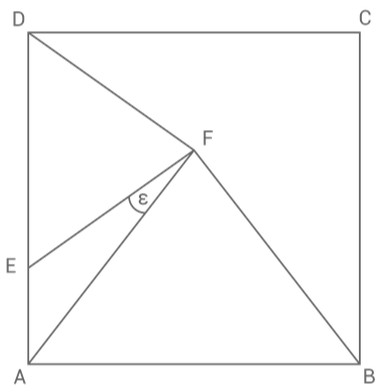
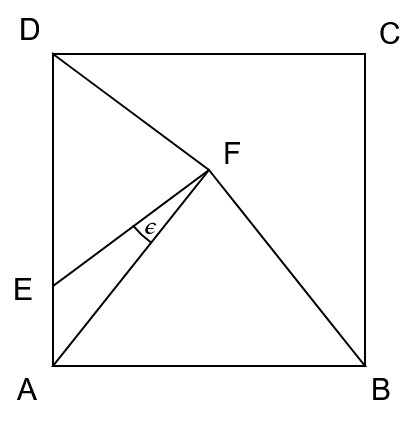
Exercise 247a done

Changed region(s): [[0.0, 0.0, 1.0, 0.9796], [0.6562, 0.5816, 0.7812, 0.7347]]

diff --git a/src/content/implementations/BW_Realschule/247-2022-B-1-Figuren+Funktionen.tsx b/src/content/implementations/BW_Realschule/247-2022-B-1-Figuren+Funktionen.tsx
@@ -1,7 +1,16 @@
 import { Exercise } from '@/data/types'
-import { buildOverline } from '@/helper/math-builder'
+import {
+  buildEquation,
+  buildInlineFrac,
+  buildOverline,
+} from '@/helper/math-builder'
+import { pp } from '@/helper/pretty-print'
+import { roundToDigits } from '@/helper/round-to-digits'
 
-interface DATA {}
+interface DATA {
+  ab: number
+  af: number
+}
 
 export const exercise247: Exercise<DATA> = {
   title: 'Figuren + Funktionen',
@@ -9,11 +18,15 @@ export const exercise247: Exercise<DATA> = {
   useCalculator: true,
   duration: 42,
   generator(rng) {
-    return {}
+    return { ab: rng.randomIntBetween(8, 14), af: rng.randomIntBetween(10, 16) }
   },
-  originalData: {},
+  originalData: { ab: 14, af: 12 },
   constraint({ data }) {
-    return true
+    const ag = roundToDigits(
+      Math.sqrt(data.af * data.af - (data.ab / 2) * (data.ab / 2)),
+      2,
+    )
+    return ag + 2 < data.ab
   },
   intro({ data }) {
     return null
@@ -40,8 +53,8 @@ export const exercise247: Exercise<DATA> = {
             </svg>
             <p>Es gilt:</p>
             <p>
-              {buildOverline('AB')} = 10 cm<br></br>
-              {buildOverline('AF')} = 12 cm<br></br>
+              {buildOverline('AB')} = {data.ab} cm<br></br>
+              {buildOverline('AF')} = {data.af} cm<br></br>
               {buildOverline('AF')} = {buildOverline('BF')}
               <br></br>
               {buildOverline('EF')} = {buildOverline('DF')}
@@ -55,7 +68,210 @@ export const exercise247: Exercise<DATA> = {
         )
       },
       solution({ data }) {
-        return <></>
+        const ag = roundToDigits(
+          Math.sqrt(data.af * data.af - (data.ab / 2) * (data.ab / 2)),
+          2,
+        )
+        const ge = roundToDigits(data.ab - ag, 2)
+        const ae = ag - ge
+        const alpha = roundToDigits(
+          (360 * Math.atan(ge / (data.ab / 2))) / (2 * Math.PI),
+          2,
+        )
+        const alphaepsilon = roundToDigits(
+          (360 * Math.atan(ag / (data.ab / 2))) / (2 * Math.PI),
+          2,
+        )
+        return (
+          <>
+            <p>
+              <strong>Fläche von AFE</strong>
+            </p>
+            <p>
+              Berechne zuerst die Höhe {buildOverline('GF')} und die Länge{' '}
+              {buildOverline('AE')}.
+            </p>
+            <svg viewBox="0 0 328 210">
+              <image
+                href="/content/BW_Realschule/247_Figur2.jpg"
+                height="210"
+                width="328"
+              />
+            </svg>
+            <p>
+              Die Höhe {buildOverline('GF')} entspricht genau der halben Strecke
+              AB:
+            </p>
+            <p>
+              {buildOverline('GF')} = {buildOverline('AB')} : 2 = {data.ab} cm :
+              2 = {pp(data.ab / 2)} cm
+            </p>
+            <p>
+              Im rechtwinkligen Dreieck AFG lässt sich die Länge{' '}
+              {buildOverline('AG')} mit dem Satz des Pythagoras berechnen:
+            </p>
+            <div>
+              <span style={{ fontSize: '0.8em' }}>
+                {buildEquation([
+                  [
+                    <>{buildOverline('AF')}²</>,
+                    <>=</>,
+                    <>
+                      {buildOverline('AG')}² + {buildOverline('GF')}²
+                    </>,
+                  ],
+                  [
+                    <>({pp(data.af)} cm)²</>,
+                    <>=</>,
+                    <>
+                      {buildOverline('AG')}² + ({pp(data.ab / 2)} cm)²
+                    </>,
+                    <>| − ({pp(data.ab / 2)} cm)²</>,
+                  ],
+                  [
+                    <>{buildOverline('AG')}²</>,
+                    <>=</>,
+                    <>
+                      ({pp(data.af)} cm)² − ({pp(data.ab / 2)} cm)²
+                    </>,
+                    <>| √</>,
+                  ],
+                  [<>{buildOverline('AG')}</>, <>≈</>, <>{pp(ag)} cm</>],
+                ])}
+              </span>
+            </div>
+            <p>Berechne damit {buildOverline('DG')}:</p>
+            {buildEquation([
+              [
+                <>{buildOverline('DG')}</>,
+                <>=</>,
+                <>
+                  {buildOverline('AD')} − {buildOverline('AG')}
+                </>,
+              ],
+              [
+                <></>,
+                <>=</>,
+                <>
+                  {pp(data.ab)} cm − {pp(ag)} cm
+                </>,
+              ],
+              [<></>, <>=</>, <>{pp(ge)} cm</>],
+            ])}
+
+            <p>Damit ist {buildOverline('AE')}:</p>
+            {buildEquation([
+              [
+                <>{buildOverline('AE')}</>,
+                <>=</>,
+                <>
+                  {buildOverline('AG')} − {buildOverline('GE')}
+                </>,
+              ],
+              [
+                <></>,
+                <>=</>,
+                <>
+                  {pp(ag)} cm − {pp(ge)} cm
+                </>,
+              ],
+              [<></>, <>=</>, <>{pp(ae)} cm</>],
+            ])}
+            <p>Berechne die Dreiecksfläche:</p>
+            {buildEquation([
+              [
+                <>A</>,
+                <>=</>,
+                <>
+                  {buildInlineFrac(
+                    <>
+                      {buildOverline('AE')} · {buildOverline('GF')}
+                    </>,
+                    <>2</>,
+                  )}
+                </>,
+              ],
+              [
+                <></>,
+                <>=</>,
+                <>
+                  {buildInlineFrac(
+                    <>
+                      {pp(ae)} cm · {pp(data.ab / 2)} cm
+                    </>,
+                    <>2</>,
+                  )}
+                </>,
+              ],
+              [
+                <></>,
+                <>=</>,
+                <>
+                  <strong>{pp((ae * (data.ab / 2)) / 2)} cm²</strong>
+                </>,
+              ],
+            ])}
+            <p>
+              <strong>ε berechnen</strong>
+            </p>
+            <p>Bestimme die Größe von α im rechtwinkligen Dreieck EFG:</p>
+            {buildEquation([
+              [
+                <>tan(α)</>,
+                <>=</>,
+                <>
+                  {buildInlineFrac(
+                    <>{buildOverline('GE')}</>,
+                    <>{buildOverline('GF')}</>,
+                  )}
+                </>,
+              ],
+              [
+                <>tan(α)</>,
+                <>=</>,
+                <>
+                  {buildInlineFrac(<>{pp(ge)} cm</>, <>{pp(data.ab / 2)} cm</>)}
+                </>,
+                <>
+                  | tan<sup>-1</sup>()
+                </>,
+              ],
+              [<>α</>, <>≈</>, <>{pp(alpha)}°</>],
+            ])}
+            <p>
+              Mit der gleichen Rechnung kann im rechtwinkligen Dreieck AFG der
+              zusammengesetzte Winkel α + ε berechnet werden:
+            </p>
+            {buildEquation([
+              [
+                <>tan(α + ε)</>,
+                <>=</>,
+                <>
+                  {buildInlineFrac(
+                    <>{buildOverline('AG')}</>,
+                    <>{buildOverline('GF')}</>,
+                  )}
+                </>,
+              ],
+              [
+                <>tan(α + ε)</>,
+                <>=</>,
+                <>
+                  {buildInlineFrac(<>{pp(ag)} cm</>, <>{pp(data.ab / 2)} cm</>)}
+                </>,
+                <>
+                  | tan<sup>-1</sup>()
+                </>,
+              ],
+              [<>α + ε</>, <>≈</>, <>{pp(alphaepsilon)}°</>],
+            ])}
+            <p>Berechne damit ε:</p>
+            <p>
+              ε = {pp(alphaepsilon)}° − {pp(alpha)}° ={' '}
+              <strong>{pp(alphaepsilon - alpha)}°</strong>
+            </p>
+          </>
+        )
       },
     },
     {
